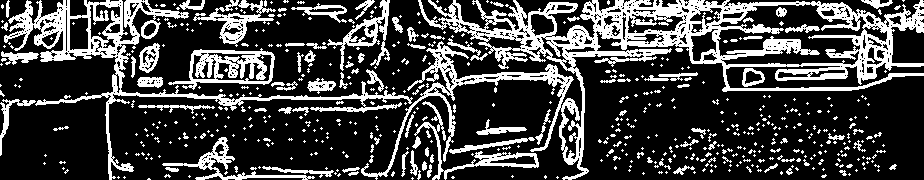
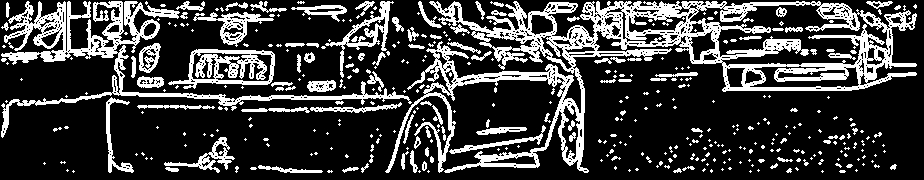
Mean-C Adaptive Thresholding

diff --git a/src/model/threshold.py b/src/model/threshold.py
@@ -1,4 +1,5 @@
 import numpy as np
+import cv2 as cv
 
 
 class Threshold:
@@ -7,7 +8,40 @@ class Threshold:
         self.clusters = clusters
         self.groups = groups
 
-    def process(self):
+    def process_adaptive(self, window, mean_c):
+        if window % 2 != 1:
+            window += 1
+
+        window_size = window * window
+        xlength, ylength = self.img.shape
+        threshold = np.zeros(self.img.shape)
+
+        for y in range(window, ylength - window):
+            for x in range(window, xlength - window):
+
+                x1, x2 = [x - window, x]
+                y1, y2 = [y - window, y]
+                window_array = self.img[x1:x2, y1:y2]
+
+                pixels = np.reshape(window_array, window_size)
+
+                mean = self.get_mean(pixels)
+                t = mean - mean_c
+                posx, posy = [x - 1 - window // 2, y - 1 - window // 2]
+
+                threshold[posx, posy] = 0 if self.img[posx, posy] >= t else 255
+
+        return threshold
+
+    def get_mean(self, values):
+        size = len(values)
+        sum = values.sum()
+
+        mean = sum // size
+
+        return mean
+
+    def process_kmeans(self):
         threshold = np.zeros(self.img.shape, dtype=np.int)
         m, n = self.img.shape
 

diff --git a/src/controller/alpr.py b/src/controller/alpr.py
@@ -42,7 +42,10 @@ class Alpr:
     def segmentation(self, img):
         print('- Segmentation')
 
-        threshold = cv.adaptiveThreshold(img, 255, cv.ADAPTIVE_THRESH_MEAN_C, cv.THRESH_BINARY_INV, 3, 9)
+        window = 5
+        mean_c = 13
+        th = Threshold(img)
+        threshold = th.process_adaptive(window, mean_c)
 
         return threshold
 
